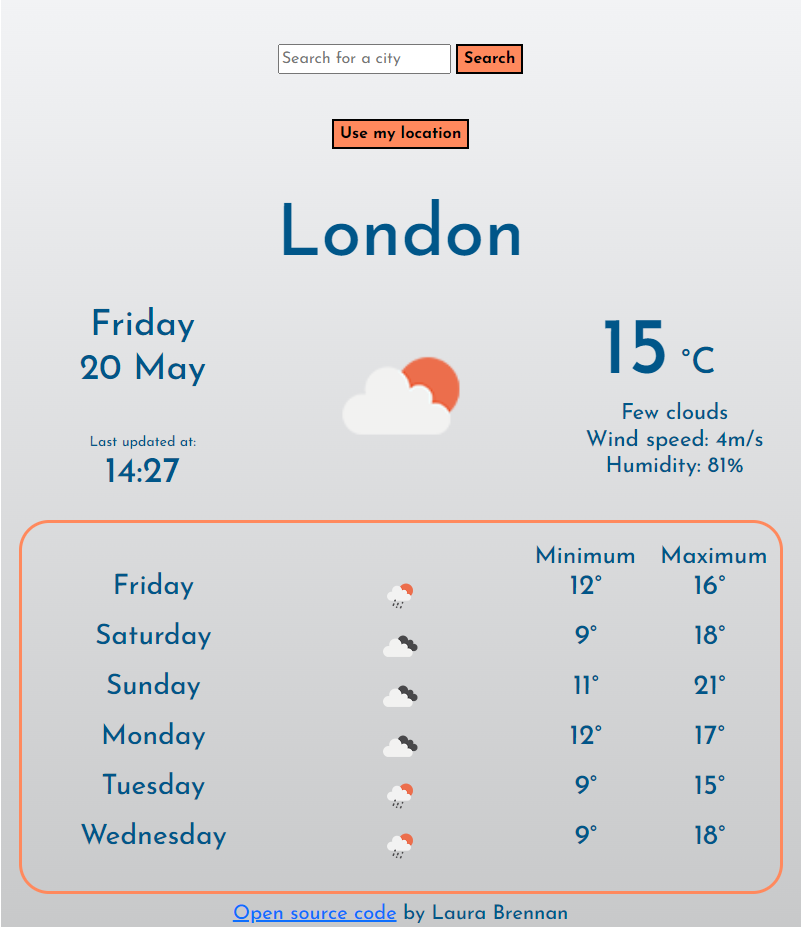
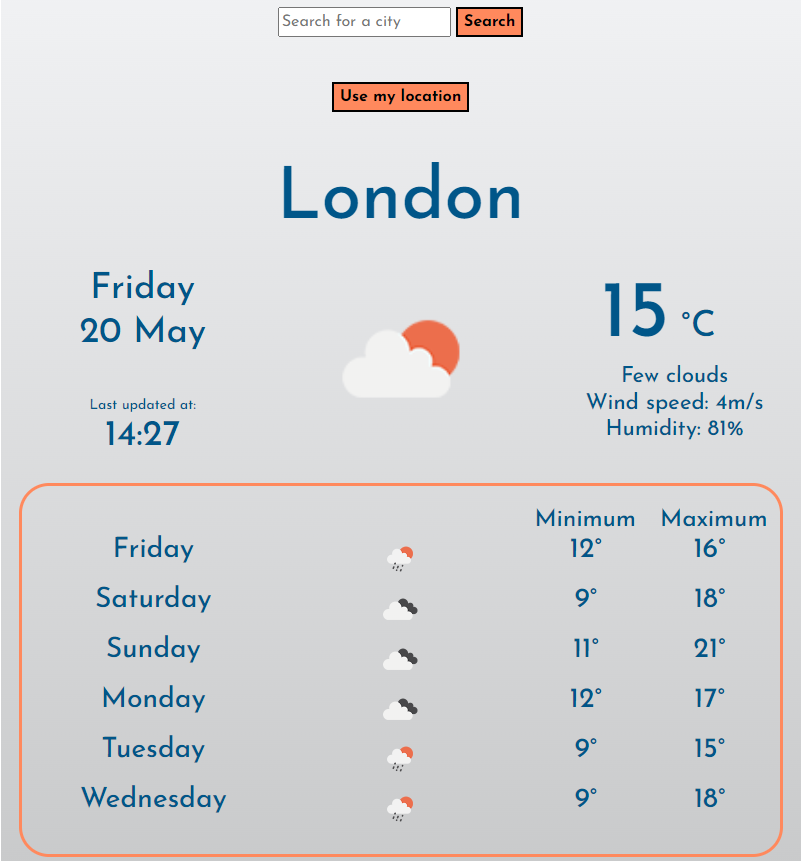
improved responsiveness

diff --git a/src/style.css b/src/style.css
@@ -12,7 +12,7 @@ h3 {
 
 h1 {
   padding: 10px;
-  font-size: 72px !important;
+  font-size: 80px !important;
 }
 
 h2 {
@@ -24,7 +24,7 @@ h3 {
 }
 
 h4 {
-  font-size: 32px !important;
+  font-size: 34px !important;
 }
 
 .btn-primary {
@@ -38,6 +38,7 @@ h4 {
 
 .homepage-content {
   background: white;
+  padding-bottom: 100px;
 }
 
 .launch-link {
@@ -48,4 +49,34 @@ h4 {
   border-radius: 4px;
   padding: 15px;
   text-decoration: none;
+  font-weight: bold;
+}
+
+p {
+  font-size: 24px;
+}
+
+img {
+  width: 400px;
+}
+
+@media (max-width: 576px) {
+  h2 {
+    padding-top: 50px;
+  }
+  h1 {
+    font-size: 60px !important;
+  }
+  h3 {
+    max-width: 400px;
+  }
+  img {
+    display: none;
+  }
+}
+
+@media (max-width: 900px) {
+  p {
+    font-size: 18px;
+  }
 }
